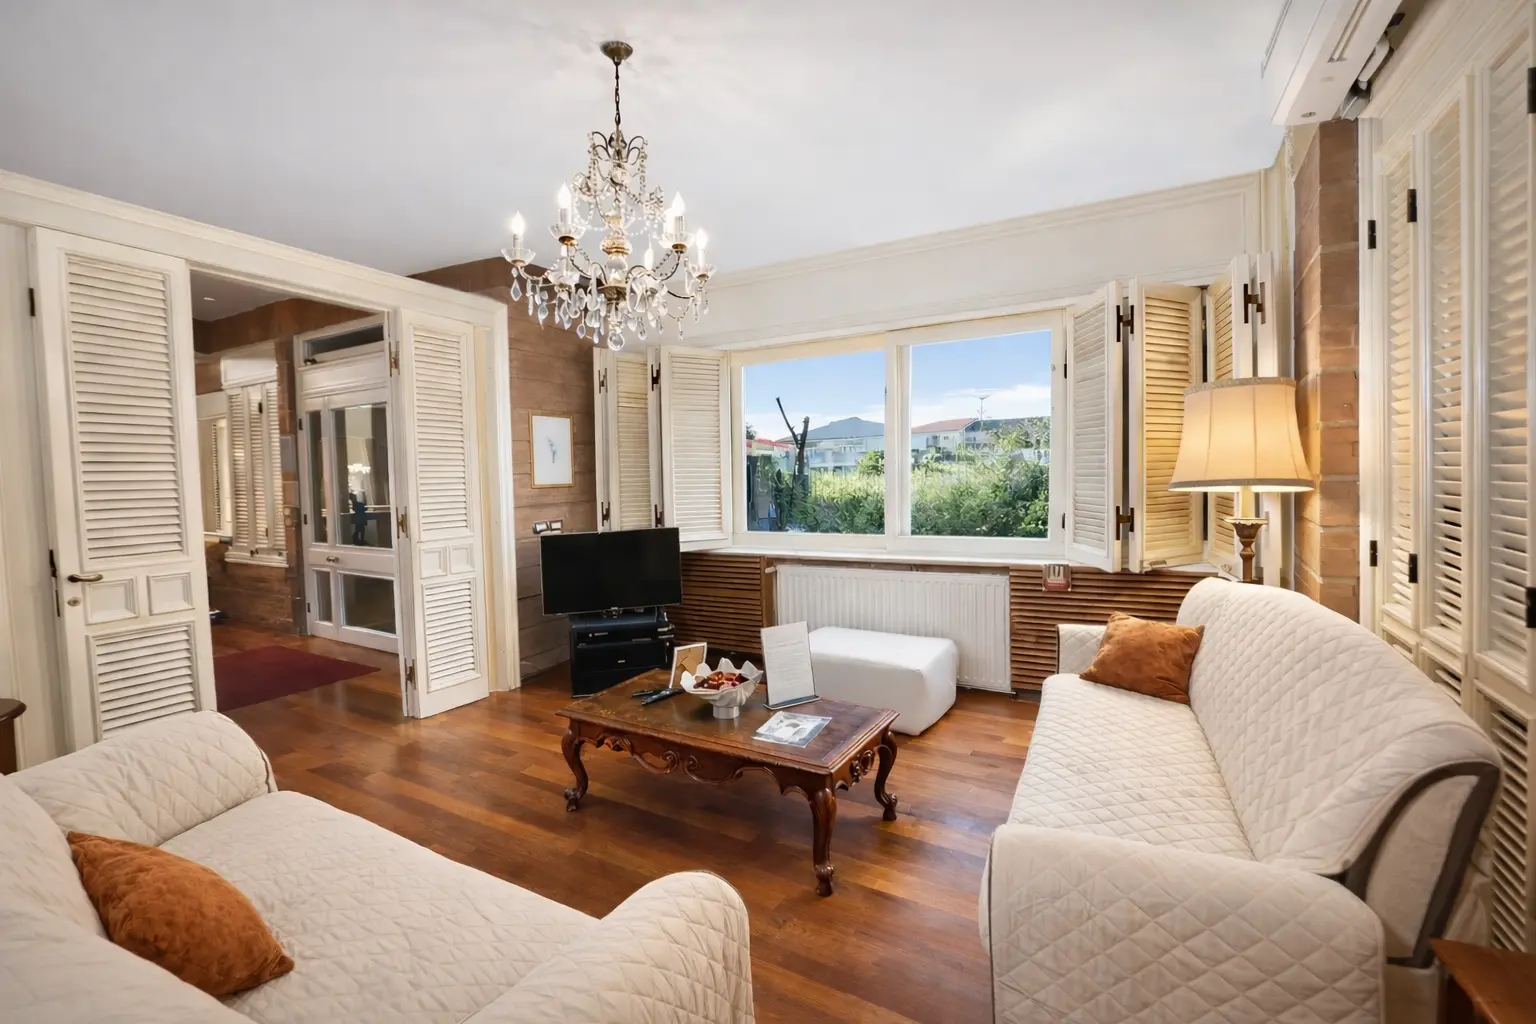
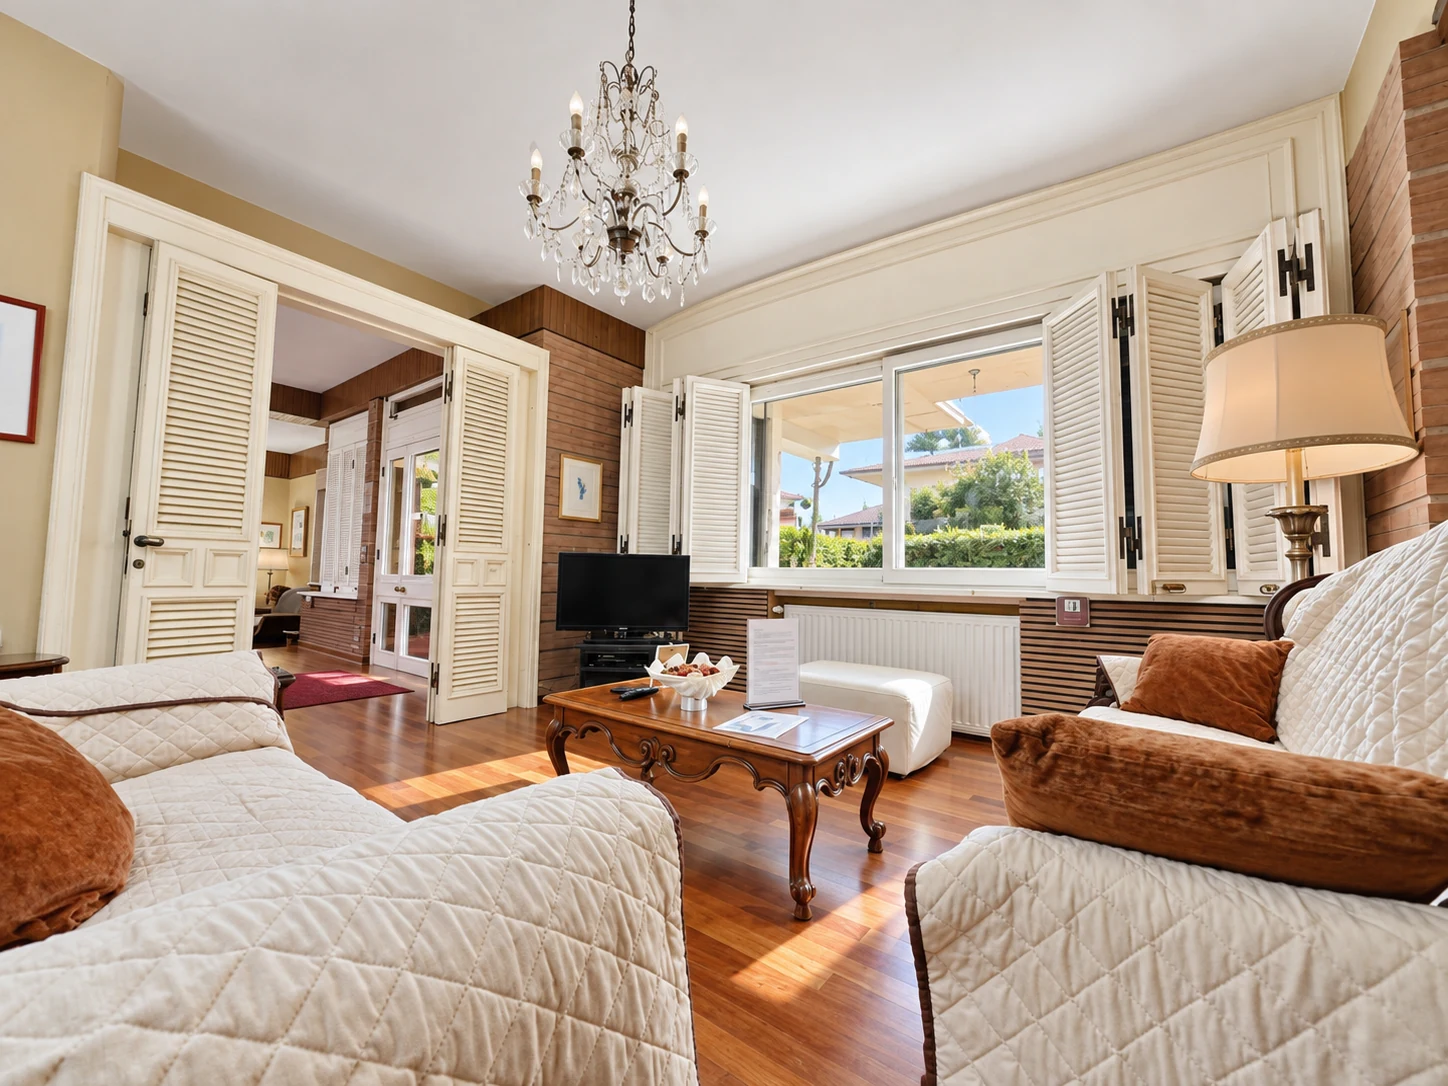
La Villa: Cover Flow, sostituita la foto 1/4 (Salone luminoso, V3) con quella nuova fornita

diff --git a/elegance/it/villa/index.html b/elegance/it/villa/index.html
@@ -4,7 +4,7 @@
 <nav class="cv-subnav"><div class="cv-wrap"><a href="#storia">La residenza</a><a href="#ambienti">Ambienti giorno</a><a href="#caratteristiche">Caratteristiche</a><a href="#foto">Fotografie</a></div></nav>
 <section class="cv-section" id="storia"><div class="cv-wrap cv-editorial"><div class="cv-editorial-copy"><p class="cv-eyebrow left">Villa Brando</p><h2>Una casa vacanze esclusiva, ecologica e sostenibile</h2><p>Ideale per famiglie, gruppi di amici, soggiorni business, team aziendali, smart-working, business travellers, location per film e serie TV, servizi fotografici ed eventi su richiesta.</p><p>Autentico esempio di architettura italiana anni ’70, la villa è stata rinnovata mantenendone intatto il carattere originario: una scelta precisa e voluta, apprezzata da chi cerca personalità e non standardizzazione. È inoltre dotata di tecnologie domotiche, comprese serrature elettroniche.</p><div class="cv-facts"><div class="cv-fact"><strong>9</strong><span>ospiti</span></div><div class="cv-fact"><strong>3</strong><span>livelli</span></div><div class="cv-fact"><strong>3</strong><span>saloni</span></div></div></div><div class="cv-editorial-media"><img src="/villa-brando-v2/assets/official/salone-rosa.webp" alt="Grande salone di Villa Brando" loading="lazy" data-photo-code="V2"></div></div></section>
 <section class="cv-section cream" id="foto-villa"><div class="cv-wrap"><div class="cv-centered"><p class="cv-eyebrow">Fotografie</p><h2 class="cv-heading">Uno sguardo alla villa</h2></div><div class="cv-photo-grid" data-coverflow="features" id="foto">
-<figure class="cv-photo"><img src="/villa-brando-v2/assets/official/living-white.webp" alt="Salone luminoso" loading="lazy" data-photo-code="V3"><figcaption class="cv-photo-caption">Salone luminoso</figcaption></figure>
+<figure class="cv-photo"><img src="/villa-brando-v2/assets/official/living-white.webp" alt="Salone luminoso con lampadario e porte a persiana" loading="lazy" data-photo-code="V3"><figcaption class="cv-photo-caption">Salone luminoso</figcaption></figure>
 <figure class="cv-photo"><img src="/villa-brando-v2/assets/official/kitchen.webp" alt="Cucina attrezzata" loading="lazy" data-photo-code="V5"><figcaption class="cv-photo-caption">Cucina</figcaption></figure>
 <figure class="cv-photo"><img src="/villa-brando-v2/assets/living-room.webp" alt="Salone classico" loading="lazy" data-photo-code="V4"><figcaption class="cv-photo-caption">Salone</figcaption></figure>
 <figure class="cv-photo"><img src="/villa-brando-v2/assets/official/game-room.webp" alt="Sala giochi" loading="lazy" data-photo-code="V6"><figcaption class="cv-photo-caption">Sala giochi</figcaption></figure>
